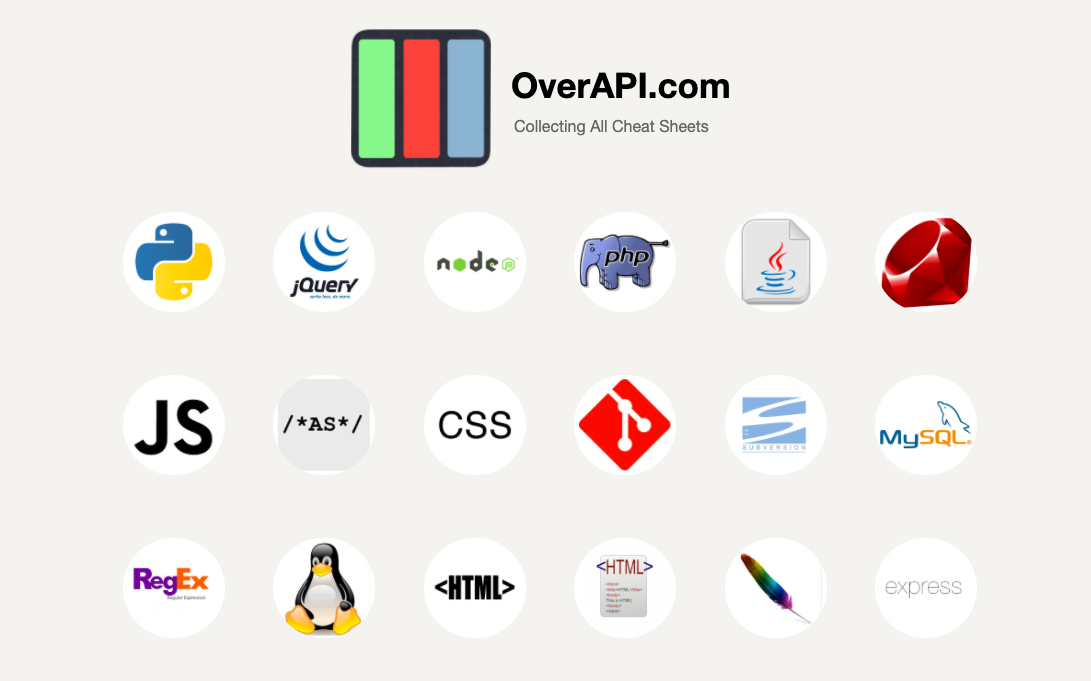
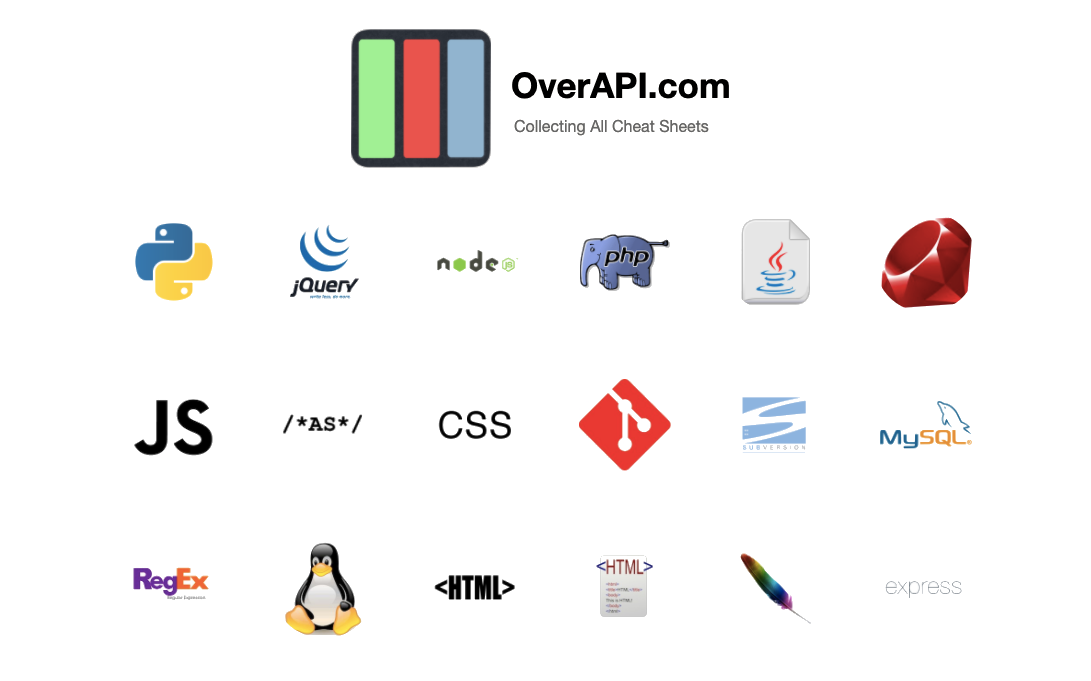
adding new data

diff --git a/js/main.js b/js/main.js
@@ -153,6 +153,29 @@ let tutorials = [
 		title: "egghead",
 		user: "User Name",
 		_id: "5df5093ca9644c9fd0ffdd3c"
+	},
+	{
+		date: "2018-01-24T21:42:27.388Z",
+		image: "../img/hardCodedData/5-illustrated.png",
+		website: "https://illustrated.dev/",
+		isPublished: false,
+		price: 1,
+		tags: (2)[("afro", "afrochella")],
+		title: "illustrated.dev",
+		description: "",
+		user: "User Name",
+		_id: "5df5093ca9644c9fd0ffdd3c"
+	},
+	{
+		date: "2018-01-24T21:42:27.388Z",
+		image: "../img/hardCodedData/6-masteringMarkdown.png",
+		website: "https://guides.github.com/features/mastering-markdown/",
+		isPublished: false,
+		price: 1,
+		tags: (2)[("afro", "afrochella")],
+		title: "Mastering Markdown",
+		user: "User Name",
+		_id: "5df5093ca9644c9fd0ffdd3c"
 	}
 ];
 let gifs = [

diff --git a/css/main.css b/css/main.css
@@ -17,7 +17,7 @@ html {
 
 body {
 	font-family: "Helvetica", sans-serif;
-	background: rgb(252, 238, 234);
+	/* background: rgb(252, 238, 234); */
 }
 
 ul {
@@ -348,6 +348,8 @@ img {
 	width: 100%;
 	height: 100%;
 	/* border-radius: 25%; */
+	/* background: white; */
+	background: #f1f1f1;
 	border-radius: 2%;
 	border: solid;
 }
